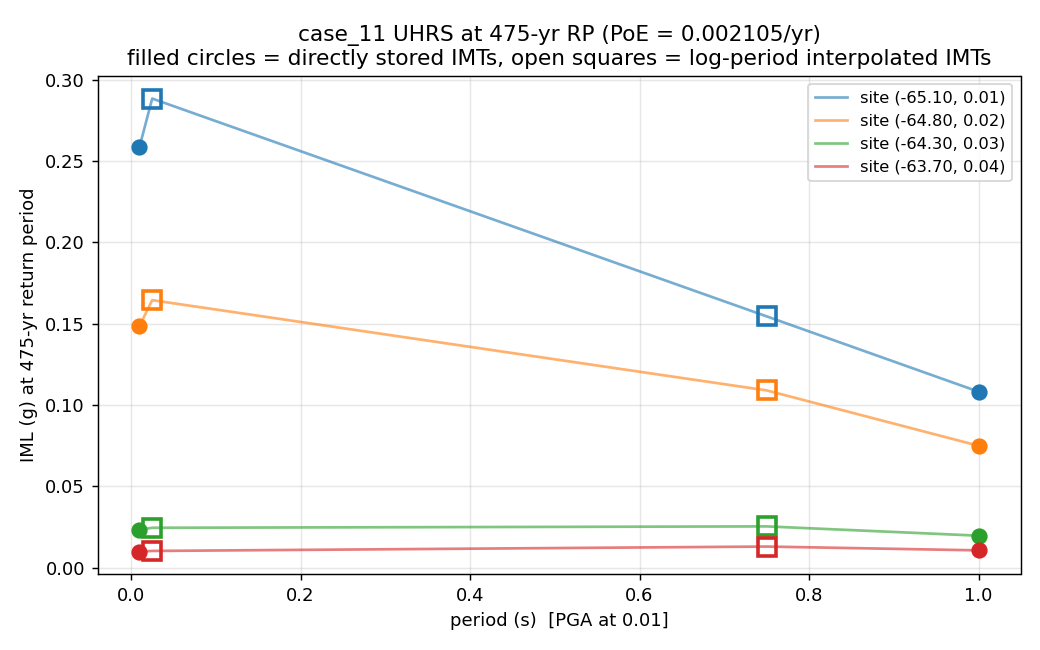
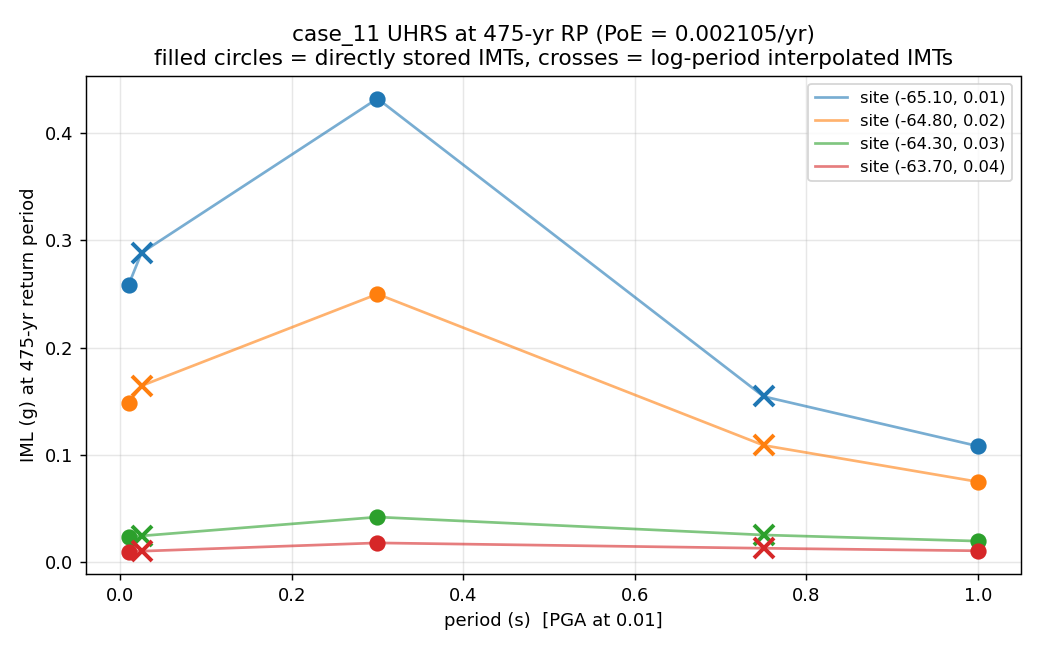
need SA(0.3) for better spectral shape

diff --git a/openquake/calculators/tests/classical_test.py b/openquake/calculators/tests/classical_test.py
@@ -270,12 +270,13 @@ class ClassicalTestCase(CalculatorTestCase):
         aac(hcurves1, hcurves2)
 
     def test_case_11(self):
-        # Check GridAdjustedGMPE at directly-stored IMTs (PGA, SA(1.0))
-        # and at IMTs requring log-period interpolation of the stored
-        # per-cell CoeffsTables - SA(0.025) and SA(0.75)
+        # Check GridAdjustedGMPE at directly-stored IMTs (PGA, SA(0.3),
+        # SA(1.0)) and at IMTs requring log-period interpolation of the
+        # stored per-cell CoeffsTables - SA(0.025) and SA(0.75)
         self.assert_curves_ok(
             ['hazard_curve-mean-PGA.csv',
              'hazard_curve-mean-SA(0.025).csv', # Interpolated
+             'hazard_curve-mean-SA(0.3).csv',
              'hazard_curve-mean-SA(0.75).csv',  # Interpolated
              'hazard_curve-mean-SA(1.0).csv'],
              case_11.__file__)

diff --git a/openquake/qa_tests_data/classical/case_11/README.md b/openquake/qa_tests_data/classical/case_11/README.md
@@ -5,10 +5,10 @@ Classical PSHA calculation for four sites using `GridAdjustedGMPE` with
 residual correction terms are applied (`dL2L`, `dS2S`, `att_per_km`) to
 both the mean predicted ground-motion and the mapped sigma component
 (can be total, tau or phi). The HDF5 stores adjustments at four IMTs
-(PGA, SA(0.05), SA(0.3), SA(1.0)); the job runs at those two stored
-endpoint IMTs (PGA, SA(1.0)) plus two IMTs synthesized by log-period
-interpolation of the per-cell CoeffsTables built at load time
-(SA(0.025), SA(0.75)). Extrapolation beyond the stored SA range would
+(PGA, SA(0.05), SA(0.3), SA(1.0)); the job runs at three of the
+stored IMTs (PGA, SA(0.3), SA(1.0)) plus two IMTs synthesized by
+log-period interpolation of the per-cell CoeffsTables built at load
+time (SA(0.025), SA(0.75)). Extrapolation beyond the stored SA range would
 raise `ValueError`. The visualisation of the hdf5 clearly shows that the
 h3 grids can vary in density - this is intentional, with the
 `GridAdjustedGMPE` supporting either constant or varying density h3 grid
@@ -29,8 +29,8 @@ CoeffsTables.
 The plot below shows the 475-year return period UHRS at each of the
 four test sites (annual PoE = 1/475 ≈ 0.002105). IMLs are found by
 log-log interpolation of each mean hazard curve at the target PoE.
-Directly stored IMTs (PGA, SA(1.0)) are filled circles; log-period
-interpolated IMTs (SA(0.025), SA(0.75)) are open squares. Axes are
+Directly stored IMTs (PGA, SA(0.3), SA(1.0)) are filled circles;
+log-period interpolated IMTs (SA(0.025), SA(0.75)) are crosses. Axes are
 linear-linear; the spectrum is smooth across period despite two of the
 four IMTs being synthesised by log-period interpolation of the per-cell
 adjustments.
